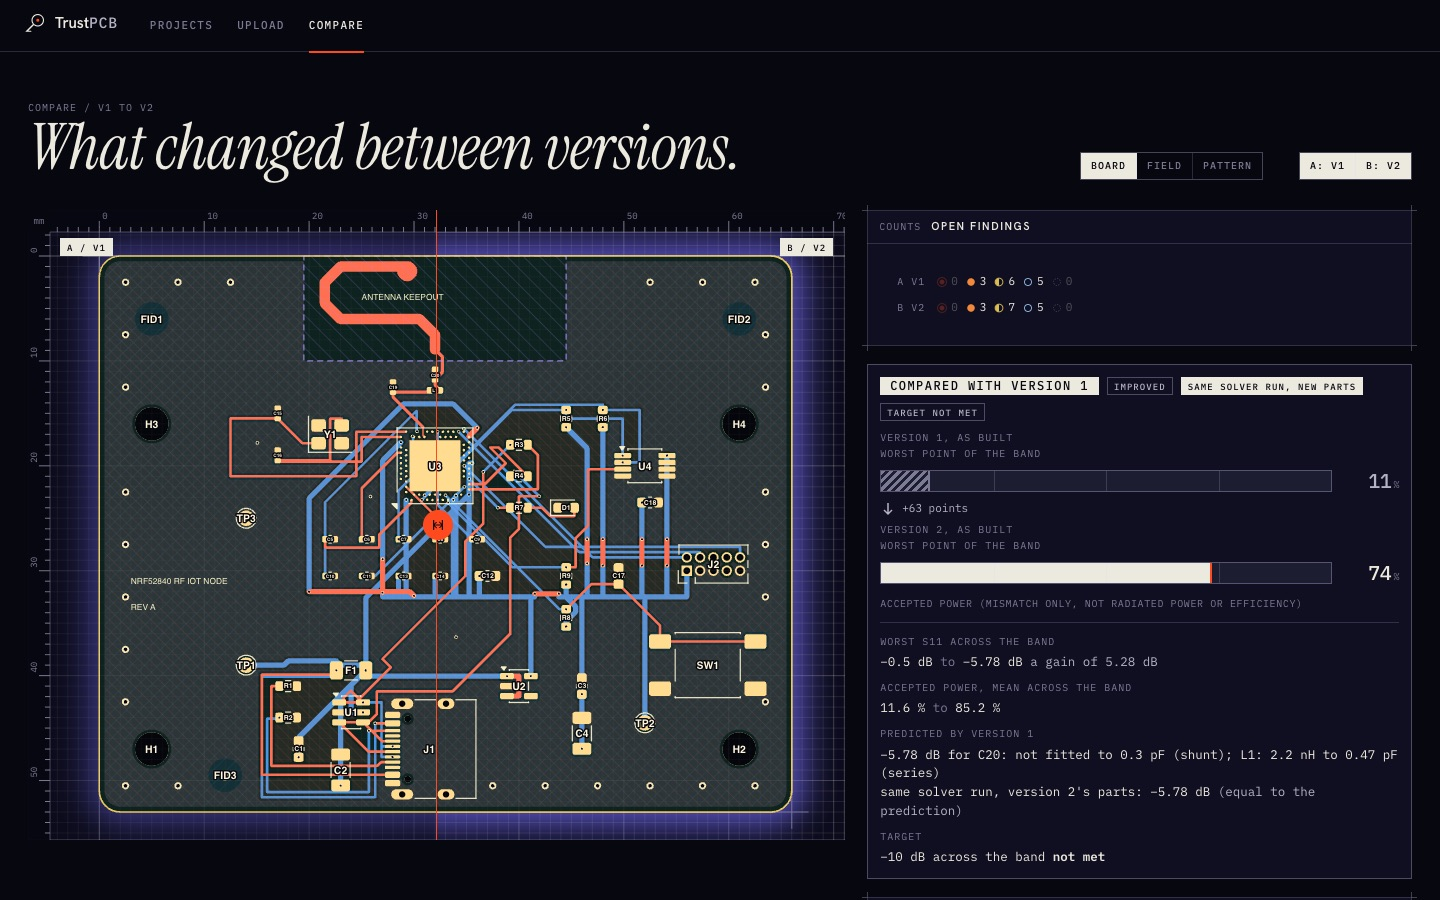
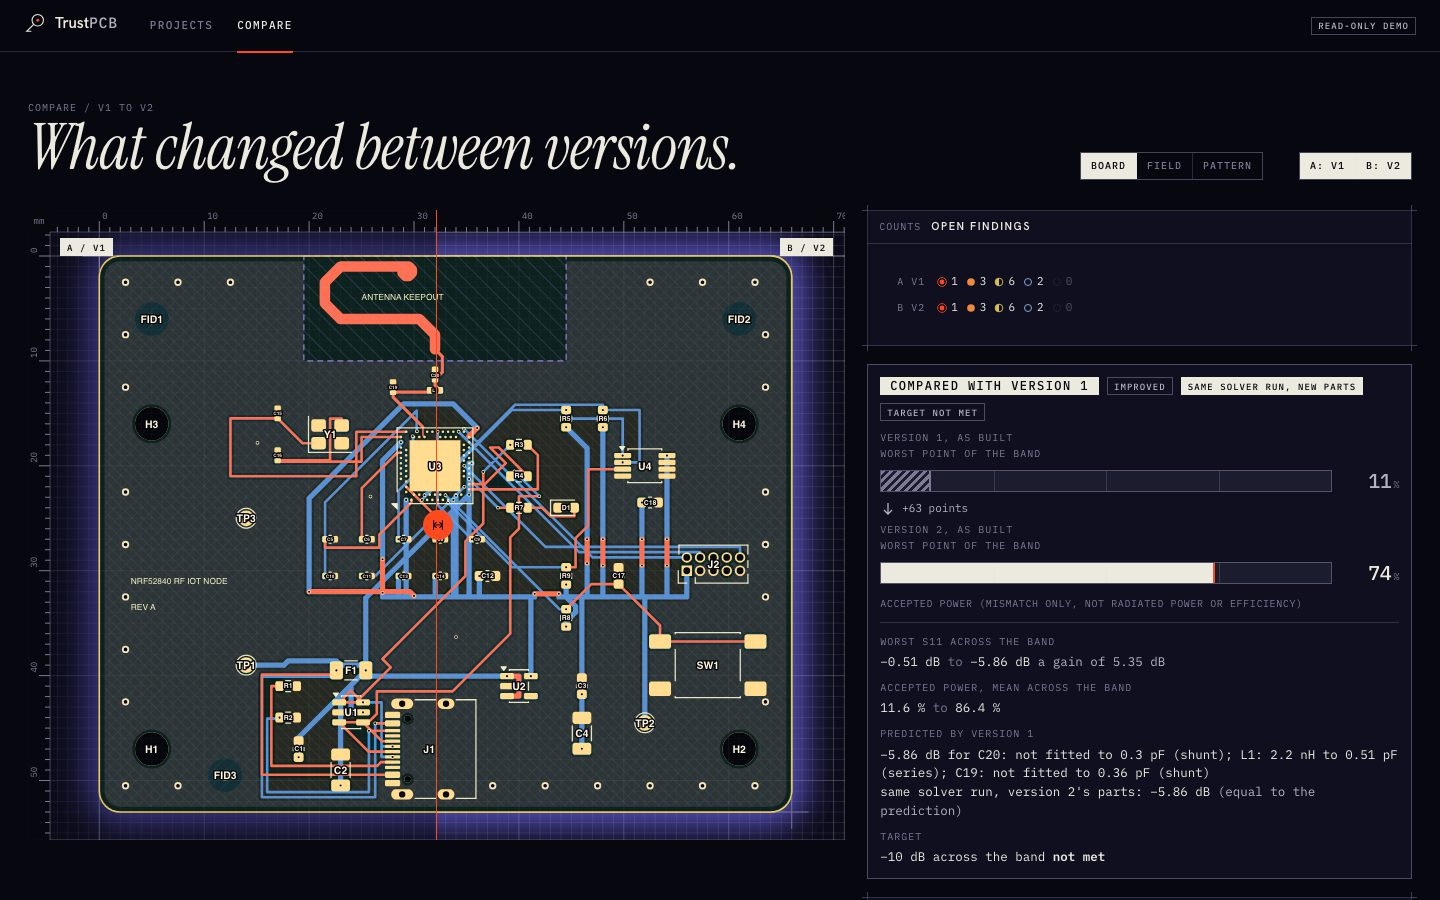
fix: stop calling a fixed dip the resonance, draw the report lead once, keep demos to Muse runs

diff --git a/web/components/workspace/Experiments.tsx b/web/components/workspace/Experiments.tsx
@@ -16,7 +16,7 @@ function Thumb({ curve, id, band, job, source }: { curve: unknown; id: string; b
   const own = normaliseCurve(curve);
   const fetched = useAsync(!own && job && source && job.files.includes("s11.json") ? () => loadCurves(source, job).then((c) => c.antenna) : null, `th:${job?.job_id}:${job?.files.length}`).data ?? null;
   const c = own ?? fetched;
-  return <div className="ex-graph">{c ? <TuningGraph curves={[{ id, label: id, f_ghz: c.f_ghz, s11_db: c.s11_db }]} band={band ?? undefined} height={46} compact /> : <span className="idx dim">NO CURVE</span>}</div>;
+  return <div className="ex-graph">{c ? <TuningGraph curves={[{ id, label: id, f_ghz: c.f_ghz, s11_db: c.s11_db }]} band={band ?? undefined} height={29} compact /> : <span className="idx dim">NO CURVE</span>}</div>;
 }
 
 /** Experiment strip: base, each test, confirmed. Updates live with sim events: queued, progress, done with its curve. */
@@ -41,15 +41,17 @@ export function ExperimentStrip({ state, reviewId, band, rfNote, jobs = [], sour
           const f0ghz = f0 == null ? null : e.measurements?.resonance ? f0 / 1000 : f0 / 1e9;
           const label = e.kind === "base" ? "BASE" : e.kind === "confirm" ? "CONFIRMED" : `TEST ${exps.slice(0, i + 1).filter((x) => x.kind === "whatif").length}`;
           const ok = band && f0ghz != null && s11 != null ? s11 <= band.target_db && f0ghz >= band.lo_ghz && f0ghz <= band.hi_ghz : null;
-          const df = e.delta?.f_hz as number | undefined;
+          // the first series resonance is the length indicator; the deepest dip can jump between unrelated features of the curve
+          const shift = e.delta?.series_res_hz as number | undefined;
           const body = (
             <>
               <div className="ex-top"><span className="idx">{label}</span>{chip(e.suspect)}<span style={{ flex: 1 }} />{ok === true && <span className="stamp sig">In band</span>}{e.trust !== "ok" && <span className="stamp">Trust {e.trust}</span>}</div>
               <Thumb curve={e.curve} id={e.id} band={band} job={job} source={source} />
               <div className="ex-name" title={e.label}>{e.id} {e.label}</div>
               <div className="mono ex-num">
-                {e.measurements && Object.keys(e.measurements).length ? measurementLine(e.measurements).slice(0, 2).map((m) => (<span key={m.k}><b>{m.v}</b> {m.u} </span>)) : "-"}
-                {df != null && <span className="dim">{df >= 0 ? "+" : "−"}{Math.abs(df / 1e6).toFixed(0)} MHz</span>}
+                {shift != null
+                  ? <span title={`Shift of the first series resonance against the base run, the indicator that moves with antenna length.${e.measurements ? ` ${measurementLine(e.measurements).slice(0, 2).map((m) => `${m.k} ${m.v} ${m.u}`).join(", ")}.` : ""}`}>1st series <b>{shift >= 0 ? "+" : "−"}{Math.abs(shift / 1e6).toFixed(0)}</b> MHz</span>
+                  : e.measurements && Object.keys(e.measurements).length ? measurementLine(e.measurements).slice(0, 2).map((m) => (<span key={m.k}><b>{m.v}</b> {m.u} </span>)) : "-"}
               </div>
               {e.quality === "screen" && <div className="idx ex-q" title="Screen runs are for comparing. Do not read them as absolute numbers.">SCREEN, COMPARE ONLY</div>}
             </>

diff --git a/web/components/report/Report.tsx b/web/components/report/Report.tsx
@@ -2,10 +2,7 @@
 import "./report.css";
 import Link from "next/link";
 import { useEffect, useState } from "react";
-import { FIXTURE_MODE, getReview, getSnapshot, listRevisions, reportUrl, type ReviewMeta, type RevisionRow } from "../../lib/api";
-import { headlineOf, versionChangeOf, type Headline, type VersionChange as VC } from "../../lib/story.mjs";
-import { PartialWin } from "../rf/PartialWin";
-import { VersionChange } from "../rf/VersionChange";
+import { FIXTURE_MODE, getReview, listRevisions, reportUrl, type ReviewMeta, type RevisionRow } from "../../lib/api";
 import { Icon, Logo } from "../ui";
 import { ReportFixture } from "./ReportFixture";
 
@@ -31,16 +28,6 @@ function ReportLive({ reviewId }: { reviewId: string }) {
     listRevisions(reviewId).then((r) => { setRevs(r); if (r.length) setRev(r[r.length - 1].number); }).catch((e) => setError(e instanceof Error ? e.message : "Could not load the report."));
   }, [reviewId]);
   useEffect(() => { setFrameState("loading"); }, [rev]);
-  // the lead of the page: when this revision found a partial win, the accepted power before and after, from its own snapshot
-  const [headline, setHeadline] = useState<Headline | null>(null);
-  const [change, setChange] = useState<VC | null>(null);
-  useEffect(() => {
-    if (rev == null) return;
-    let live = true;
-    getSnapshot(reviewId, rev).then((s) => { if (live) { setHeadline(headlineOf(s)); setChange(versionChangeOf(s)); } }).catch(() => { if (live) { setHeadline(null); setChange(null); } });
-    return () => { live = false; };
-  }, [reviewId, rev]);
-
   const pdf = async () => {
     if (rev == null) return;
     setPdfError(null);
@@ -82,8 +69,6 @@ function ReportLive({ reviewId }: { reviewId: string }) {
         </div>
       )}
       {!revs && !error && <div className="rp-page" style={{ paddingTop: 60 }}><span className="idx">LOADING REPORT</span></div>}
-      {change && <div className="rp-lead no-print"><VersionChange vc={change} wide /></div>}
-      {headline && <div className="rp-lead no-print"><PartialWin h={headline} wide /></div>}
       {rev != null && (
         <div className="rp-frame-wrap">
           {frameState === "loading" && <span className="idx rp-frame-note">ASSEMBLING REPORT</span>}

diff --git a/web/components/rf/RfLab.tsx b/web/components/rf/RfLab.tsx
@@ -52,7 +52,7 @@ function JobCard({ job, active, overlaid, onActive, onOverlay }: { job: SimJob; 
         <span className="rf-job-name">{job.label ?? "Simulation"}</span>
         {ops && <span className="rf-job-ops mono">{ops}</span>}
         <span className="rf-job-num mono">
-          {done && f != null && depth != null ? <><b>{(f / 1000).toFixed(3)}</b> GHz <b>{depth.toFixed(1)}</b> dB</> : done ? "no numbers recorded" : job.status}
+          {done && f != null && depth != null ? <>dip <b>{(f / 1000).toFixed(3)}</b> GHz <b>{depth.toFixed(1)}</b> dB</> : done ? "no numbers recorded" : job.status}
           {done && acc != null && <span className="rf-acc" title={ACCEPTED_LABEL}><b>{fmtPct(acc)}</b> % accepted</span>}
           {job.trust && <span className={`stamp ${job.trust.status === "ok" ? "" : "sig"}`} title={job.trust.reasons.join("; ") || undefined}>Trust {job.trust.status === "ok" ? "ok" : "failed"}</span>}
         </span>
@@ -157,7 +157,7 @@ export function RfLabView({ reviewId, source, bundle, title, goalBand, notice, s
   const freqNote = (() => {
     if (view === "wave" && fields.data) {
       const off = sim?.f_res && Math.abs(fields.data.f_hz - sim.f_res) / fields.data.f_hz > 0.02;
-      return `Field at ${describeFreq(fields.data.f_hz, bandHz)}, relative units.${off ? ` The antenna resonates elsewhere (${ghz(sim!.f_res!)} GHz); this shows how it behaves at the target.` : ""}`;
+      return `Field at ${describeFreq(fields.data.f_hz, bandHz)}, relative units.${off ? ` The deepest S11 dip is elsewhere (${ghz(sim!.f_res!)} GHz); this shows how the antenna behaves at the target.` : ""}`;
     }
     if (view === "pattern" && pattern.data) {
       const atDip = sim?.f_res && Math.abs(pattern.data.f_hz - sim.f_res) / pattern.data.f_hz < 0.005;

diff --git a/web/components/landing/Landing.tsx b/web/components/landing/Landing.tsx
@@ -198,7 +198,7 @@ export function Landing() {
         <div className="ld-fig mono rise" style={{ animationDelay: "1000ms" }}>
           <span className="idx">FIG. 1</span>
           <span>{useRealBoard
-            ? `nRF52840 node, 66 x 53 mm. Field at 2.44 GHz and the launch pulse from a real solver run, time slowed to be visible. This antenna as drawn resonates at ${nrf.hero?.f_res ? (nrf.hero.f_res / 1e9).toFixed(2) : "1.87"} GHz, off the band: the kind of thing TrustPCB reports.`
+            ? `nRF52840 node, 66 x 53 mm. Field at 2.44 GHz and the launch pulse from a real solver run, time slowed to be visible. As drawn, this antenna's deepest dip sits at ${nrf.hero?.f_res ? (nrf.hero.f_res / 1e9).toFixed(2) : "1.87"} GHz, off the band: the kind of thing TrustPCB reports.`
             : "2.5 GHz patch antenna, 60 x 50 mm. Complex field from the solver, phase locked, time slowed to be visible."}</span>
           <span className="stamp sim"><i />Real openEMS output</span>
         </div>

diff --git a/web/lib/review-view.ts b/web/lib/review-view.ts
@@ -27,7 +27,7 @@ export const fmtClock = (s: number) => {
   return `${String(m).padStart(2, "0")}:${String(r).padStart(2, "0")}`;
 };
 
-const NAMES: Record<string, string> = { f_res_hz: "f0", s11_min_db: "S11", bandwidth_hz: "BW", dmax_dbi: "gain", efficiency: "eff", band_worst_s11_db: "band worst" };
+const NAMES: Record<string, string> = { resonance: "deepest dip", f_res_hz: "f0", s11_min: "S11", s11_min_db: "S11", bandwidth_hz: "BW", dmax_dbi: "gain", efficiency: "eff", band_worst_s11_db: "band worst" };
 /** Display rows for a simulation's measurements, in friendly units. Only what the solver reported. */
 export function measurementLine(m: Record<string, { value: number; unit: string }>) {
   return Object.entries(m).slice(0, 4).map(([k, x]) => {

diff --git a/web/components/workspace/workspace.css b/web/components/workspace/workspace.css
@@ -697,6 +697,11 @@
 .ex-cell.confirm {
   border-color: var(--paper);
 }
+/* the card kind shares its name with the what-if chat block, whose spacing would collapse the run name */
+.ex-cell.whatif {
+  gap: 3px;
+  padding: 6px 8px;
+}
 .ex-cell.link {
   color: inherit;
   text-decoration: none;
@@ -727,10 +732,10 @@
   height: 14px;
 }
 .ex-graph {
-  height: 42px;
+  height: 29px;
 }
 .ex-prog {
-  height: 42px;
+  height: 29px;
   display: flex;
   align-items: center;
 }

diff --git a/web/components/report/report.css b/web/components/report/report.css
@@ -296,4 +296,3 @@
   top: 40px;
   transform: translateX(-50%);
 }
-.rp-live .rp-lead { padding: 14px 16px 0; max-width: 1180px; margin: 0 auto; width: 100%; }

diff --git a/server/trustpcb/review/report.py b/server/trustpcb/review/report.py
@@ -260,6 +260,8 @@ table{border-collapse:collapse;width:100%;margin:8px 0}th,td{text-align:left;pad
 .card{border:1px solid #d7dbe0;border-radius:8px;padding:14px 16px;margin:14px 0;break-inside:avoid}.card h3{margin-top:0}.notice{border-left:4px solid #ff9f1a;background:#fff8ec;padding:8px 12px;margin:12px 0}
 .changes{border-left:4px solid #22a3d6;background:#eef8fd;padding:8px 12px;margin:12px 0}svg.board{width:100%;height:auto;border:1px solid #d7dbe0;border-radius:6px;background:#fff}
 .counts span{margin-right:8px}td.n,table.vc th{white-space:nowrap}ul{padding-left:20px;margin:4px 0}code{font-family:ui-monospace,Menlo,monospace;font-size:13px}.small{font-size:13px}
+.power{margin:12px 0}.power>div{display:grid;grid-template-columns:minmax(0,190px) 1fr 58px;gap:10px;align-items:center;margin:6px 0;font-size:13px}.power i{height:14px;background:#e6e9ed;display:block}
+.power b{display:block;height:100%;background:#1c2024;print-color-adjust:exact;-webkit-print-color-adjust:exact}.power strong{text-align:right;font-family:ui-monospace,Menlo,monospace}
 @media print{main{padding:0}h2{break-after:avoid}}
 '''
 
@@ -324,9 +326,18 @@ def _cell(row: dict | None, key: str, unit: str) -> str:
     return f'<td class="n">{esc(row[key])} {esc(unit)}</td>'
 
 
+def power_bars(caption: str, rows: list[tuple[str, Any]]) -> str:
+    """Accepted power as bars, one per (label, percent). Empty when a value is missing."""
+    if any(pct is None for _, pct in rows):
+        return ''
+    bars = ''.join(f'<div><span>{esc(label)}</span><i><b style="width:{min(max(float(pct), 0), 100):g}%"></b></i><strong>{float(pct):g} %</strong></div>' for label, pct in rows)
+    return f'<div class="power"><p class="small muted">{esc(caption)}</p>{bars}</div>'
+
+
 def render_headline(h: dict) -> str:
     """The partial win, first on the page: improved at confirm quality, target not met, with the best parts and the accepted power before and after."""
     best, base = h['best'], h['base']
+    bars = power_bars('Accepted power, worst point of the band', [('Confirmed base', base.get('accepted_power_worst_pct')), ('Best confirm-quality parts', best.get('accepted_power_worst_pct'))])
     rows = [('Worst S11 in the band', f'{base.get("band_worst_s11_db")} dB', f'{best.get("band_worst_s11_db")} dB')]
     if base.get('accepted_power_worst_pct') is not None and best.get('accepted_power_worst_pct') is not None:
         rows.append(('Accepted power, worst point of the band', f'{base["accepted_power_worst_pct"]} %', f'{best["accepted_power_worst_pct"]} %'))
@@ -336,7 +347,7 @@ def render_headline(h: dict) -> str:
     return ('<div class="card"><h2 style="margin-top:0;border:0">Improved, target not met</h2>'
             f'<p>{pill("cls-simulated", "partial win")} Confirm improves the worst S11 in the band by {esc(h.get("gain_db"))} dB, and the tuning target'
             f'{" of " + esc(format(h["target_db"], "g")) + " dB" if h.get("target_db") is not None else ""} is not met.</p>'
-            f'<p><strong>Parts to try, in your own tool:</strong> {esc(h["parts_text"])}.</p>{table}'
+            f'<p><strong>Parts to try, in your own tool:</strong> {esc(h["parts_text"])}.</p>{bars}{table}'
             '<p class="small muted">Accepted power is 100 x (1 - |S11|^2) per frequency: a mismatch figure only. It is not radiated power or efficiency. '
             f'Simulated; not a substitute for a real antenna measurement.{(" See finding " + esc(h["finding"]) + ".") if h.get("finding") else ""}</p></div>')
 
@@ -366,7 +377,8 @@ def render_version_change(vc: dict) -> str:
         else:
             badges += ' ' + (pill('cls-simulated', 'Same solver run, new parts') if vc.get('consistent') else pill('sev-high', 'Same solver run, not consistent'))
     badges += ' ' + (pill('cls-measured', 'Target met') if vc['target_met'] else pill('sev-medium', 'Target not met'))
-    return (f'<div class="card"><h2 style="margin-top:0;border:0">Compared with version {esc(a)}</h2><p>{badges}</p><p>{esc(vc["text"])}</p>{table}'
+    bars = power_bars('Accepted power as built, worst point of the band', [(f'Version {a}', frm.get('accepted_power_worst_pct')), (f'Version {b}', to.get('accepted_power_worst_pct'))])
+    return (f'<div class="card"><h2 style="margin-top:0;border:0">Compared with version {esc(a)}</h2><p>{badges}</p><p>{esc(vc["text"])}</p>{bars}{table}'
             '<p class="small muted">Accepted power is 100 x (1 - |S11|^2) per frequency: a mismatch figure only, not radiated power or efficiency. '
             f'Both results are confirm-quality simulations of the board as built (evidence {esc(frm.get("evidence"))} and {esc(to.get("evidence"))}). '
             + ('Version ' + esc(b) + ' was finalised from the same solver run as version ' + esc(a) + ', with its own matching parts: it is consistent with the prediction, not an independent result. ' if prediction and not vc.get('independent_check') and vc.get('applied') is not False else '')

diff --git a/server/tests/foundation/test_seed_demo.py b/server/tests/foundation/test_seed_demo.py
@@ -1,0 +1,58 @@
+"""scripts/seed-demo.sh: a demo stands for Muse work unless the caller says it is private."""
+import json
+import sqlite3
+import subprocess
+from pathlib import Path
+
+SCRIPT = Path(__file__).resolve().parents[3] / 'scripts' / 'seed-demo.sh'
+
+
+def data_dir(path: Path, *runners: str, status: str = 'complete') -> Path:
+    path.mkdir()
+    db = sqlite3.connect(path / 'trustpcb.sqlite3')
+    db.execute('CREATE TABLE reviews (id TEXT, status TEXT, profile TEXT)')
+    for index, runner in enumerate(runners):
+        db.execute('INSERT INTO reviews VALUES (?, ?, ?)', (str(index), status, json.dumps({'runner': runner})))
+    db.commit()
+    db.close()
+    return path
+
+
+def seed(*args) -> subprocess.CompletedProcess:
+    return subprocess.run(['bash', str(SCRIPT), *map(str, args)], capture_output=True, text=True, timeout=30)
+
+
+def test_muse_reviews_are_seeded(tmp_path):
+    source, target = data_dir(tmp_path / 'source', 'muse_api', 'muse_api'), tmp_path / 'target'
+    done = seed(source, target)
+    assert done.returncode == 0, done.stderr
+    assert '2 review(s) found' in done.stdout and (target / 'trustpcb.sqlite3').exists()
+
+
+def test_a_review_from_another_runner_is_refused(tmp_path):
+    source, target = data_dir(tmp_path / 'source', 'muse_api', 'scripted'), tmp_path / 'target'
+    done = seed(source, target)
+    assert done.returncode != 0 and '1 review(s) did not run on Muse' in done.stderr
+    assert not (target / 'trustpcb.sqlite3').exists()
+
+
+def test_a_review_without_a_recorded_runner_is_refused(tmp_path):
+    source = data_dir(tmp_path / 'source')
+    db = sqlite3.connect(source / 'trustpcb.sqlite3')
+    db.execute("INSERT INTO reviews VALUES ('0', 'complete', NULL)")
+    db.commit()
+    db.close()
+    assert seed(source, tmp_path / 'target').returncode != 0
+
+
+def test_a_private_demo_may_allow_any_runner(tmp_path):
+    source, target = data_dir(tmp_path / 'source', 'scripted'), tmp_path / 'target'
+    done = seed('--allow-any-runner', source, target)
+    assert done.returncode == 0, done.stderr
+    assert (target / 'trustpcb.sqlite3').exists()
+
+
+def test_a_running_review_is_still_refused_first(tmp_path):
+    source = data_dir(tmp_path / 'source', 'muse_api', status='running')
+    done = seed('--allow-any-runner', source, tmp_path / 'target')
+    assert done.returncode != 0 and 'still running' in done.stderr

diff --git a/server/tests/review/test_partial_win.py b/server/tests/review/test_partial_win.py
@@ -77,6 +77,9 @@ async def test_a_finding_that_reports_it_passes_and_the_report_leads_with_it(par
     assert snapshot['headline']['outcome'] == 'improved_short_of_target' and snapshot['headline']['finding'] == 'F-001' and snapshot['headline']['best']['mode'] == 'free_retune'
     html = (await report.render_revision(store=env.store, review=review, revision=env.store.latest_report_revision(review['id']), fmt='html')).decode()
     assert 'Improved, target not met' in html and html.index('Improved, target not met') < html.index('<h2>Summary</h2>') and 'Accepted power' in html
+    assert html.index('Improved, target not met') < html.index('class="power"') < html.index('<h2>Summary</h2>')
+    assert report.power_bars('x', [('a', None), ('b', 50)]) == ''
+    assert 'width:100%' in report.power_bars('x', [('a', 130)])
 
 
 async def test_after_two_refusals_the_server_adds_the_stored_result_to_the_finding(partial_env):

diff --git a/server/tests/integration/test_version_recheck.py b/server/tests/integration/test_version_recheck.py
@@ -181,4 +181,4 @@ async def test_a_v2_summary_that_does_not_open_with_the_change_since_v1_is_refus
     snapshot = store.latest_report_revision(second['id'])['snapshot']
     assert snapshot['headline']['kind'] == 'version_change' and snapshot['version_change']['text'] == vc['text']
     html = (await report.render_revision(store=store, review=second, revision=store.latest_report_revision(second['id']), fmt='html')).decode()
-    assert html.index('Compared with version 1') < html.index('<h2>Summary</h2>')
+    assert html.index('Compared with version 1') < html.index('class="power"') < html.index('<h2>Summary</h2>')

diff --git a/README.md b/README.md
@@ -166,7 +166,7 @@ scripts/seed-demo.sh <finished-data-dir>            # copies it to .trustpcb-dem
 TRUSTPCB_DEMO_READONLY=1 TRUSTPCB_DATA_DIR=.trustpcb-demo npm run dev
 ```
 
-With `TRUSTPCB_DEMO_READONLY=1` the backend refuses every `POST`, `PATCH`, `PUT` and `DELETE` with `403` and a clear message, and the web app hides upload, start, dismiss and chat and shows a "Read-only demo" notice. Set `TRUSTPCB_REPO_URL` to put a link to the repository in that notice. `seed-demo.sh` refuses a data directory with a review still running, and never changes its source. The copy includes the boards that were uploaded to it, so only seed from a data directory you may share. The demo is still a local app (loopback only); this is not hosted-use hardening.
+With `TRUSTPCB_DEMO_READONLY=1` the backend refuses every `POST`, `PATCH`, `PUT` and `DELETE` with `403` and a clear message, and the web app hides upload, start, dismiss and chat and shows a "Read-only demo" notice. Set `TRUSTPCB_REPO_URL` to put a link to the repository in that notice. `seed-demo.sh` refuses a data directory with a review still running or with a review that did not run on Muse (`--allow-any-runner` accepts that for a private demo), and never changes its source. The copy includes the boards that were uploaded to it, so only seed from a data directory you may share. The demo is still a local app (loopback only); this is not hosted-use hardening.
 
 ### Sample boards
 
